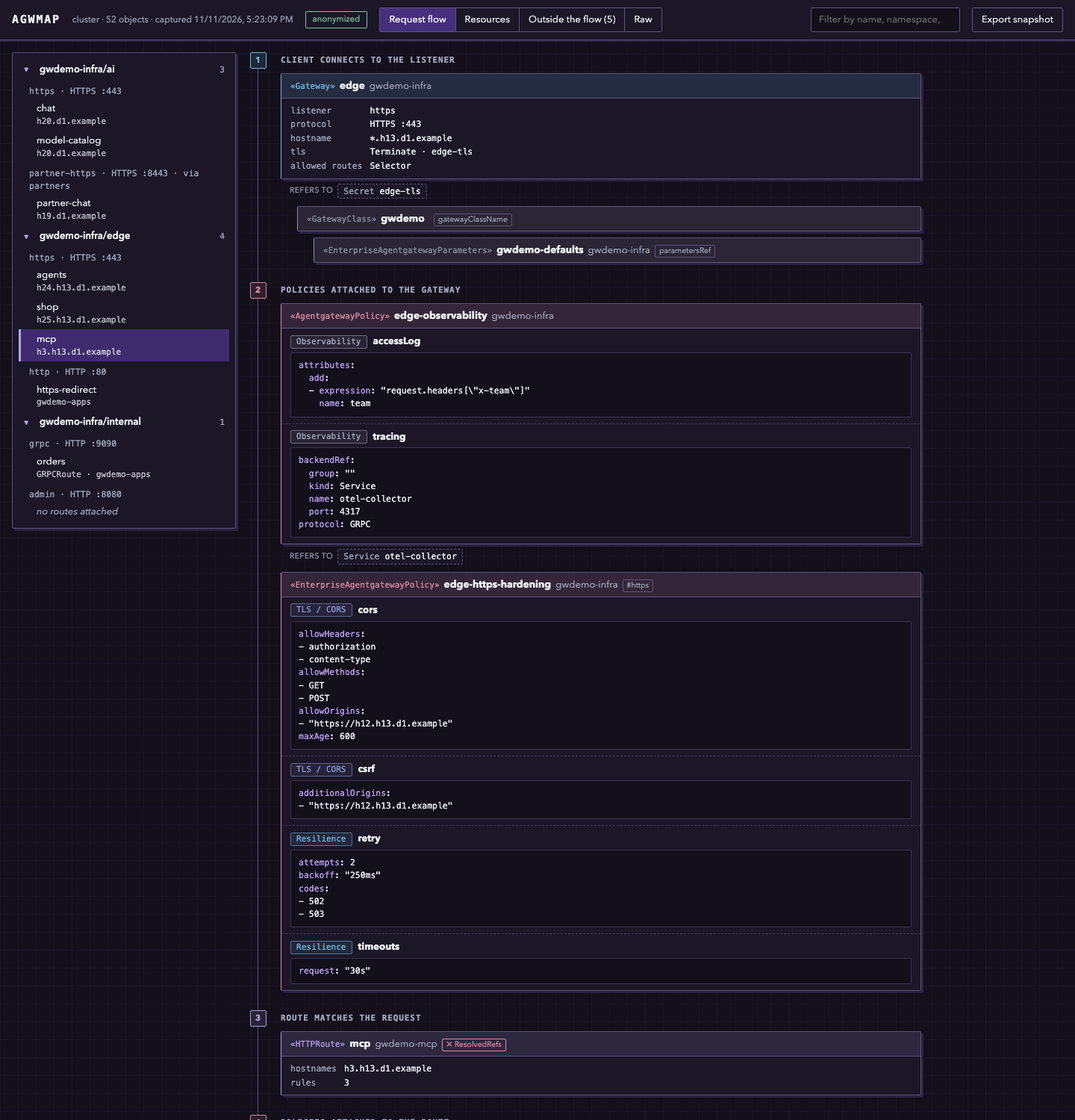
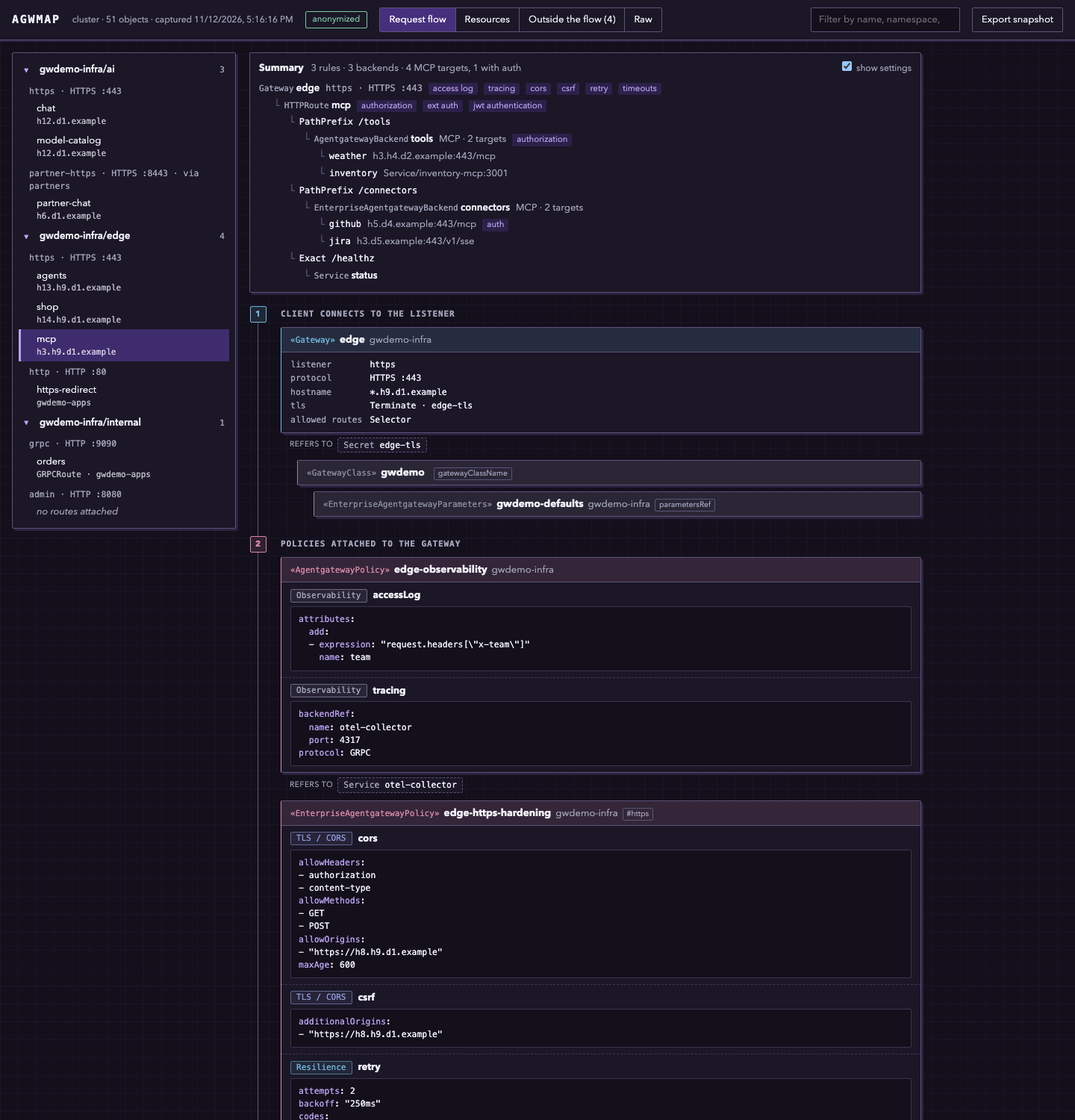
feat: show a summary of each request flow (#7)

diff --git a/web/index.html b/web/index.html
@@ -40,7 +40,8 @@ main{padding:16px}
   border-radius:var(--radius);padding:8px 12px;margin-bottom:12px}
 .mut{color:var(--mut)} .mono{font-family:var(--mono);font-size:.92em}
 .empty{color:var(--mut);font-style:italic}
-[data-open]{cursor:pointer}
+[data-open],[data-goto]{cursor:pointer}
+[data-goto]:hover{text-decoration:underline}
 .tag{display:inline-block;padding:0 7px;border:1px solid color-mix(in srgb,var(--c,var(--other)) 60%,var(--panel));border-radius:var(--radius);
   font-family:var(--mono);font-size:.85em;line-height:16px;white-space:nowrap;color:var(--c,var(--ink));
   background:color-mix(in srgb,var(--c,var(--other)) 10%,var(--panel))}
@@ -66,6 +67,8 @@ pre .y{color:var(--key)}
 .tree .r{padding:4px 6px 4px 24px;border-radius:calc(var(--radius) - 1px);cursor:pointer}
 .tree .r:hover{background:var(--soft)}
 .tree .r.on{background:color-mix(in srgb,var(--accent) 45%,var(--panel));color:var(--onaccent);box-shadow:inset 3px 0 0 var(--key)}
+.tree .r[style]{padding-left:calc(24px + var(--d) * 14px)}
+.tree .r .kid{color:var(--key);margin-right:5px}
 .tree .r small{display:block;opacity:.75;font-family:var(--mono);font-size:.85em;word-break:break-all}
 .flow{max-width:900px}
 .stage{position:relative;padding:0 0 18px 30px;border-left:1px solid var(--line);margin-left:11px}
@@ -104,6 +107,20 @@ pre .y{color:var(--key)}
 .badge.go{border-color:var(--gateway);color:var(--gateway)}
 .badge.also{border-color:var(--ratelimit);color:var(--ratelimit);margin-left:auto}
 .feat.filter{margin:0 0 8px;padding:0 0 8px;border-top:0;border-bottom:1px dashed var(--hair)}
+.summary{background:var(--panel);border:1px solid var(--line);border-radius:var(--radius);box-shadow:var(--shadow);padding:8px 12px 10px;margin-bottom:18px}
+.summary .sh{display:flex;flex-wrap:wrap;gap:4px 10px;align-items:baseline;margin-bottom:6px}
+.summary .sh label{margin-left:auto;color:var(--mut);font-size:.92em;cursor:pointer;user-select:none}
+.sl{padding:2px 0 2px calc(var(--d) * 20px);display:flex;flex-wrap:wrap;gap:3px 8px;align-items:baseline}
+.sl::before{content:"└";color:var(--line);font-family:var(--mono);margin-right:-2px}
+.sl[style="--d:0"]::before{content:none}
+.sl .nm{cursor:pointer;font-weight:600}
+.sl .nm:hover{color:var(--key)}
+.sl .nm .k{font-family:var(--mono);font-size:.85em;font-weight:400;color:var(--mut)}
+.does{font-size:.88em;border-radius:var(--radius);padding:0 6px;color:var(--key);background:color-mix(in srgb,var(--accent) 22%,var(--panel))}
+/* Settings collapsed: what each object configures stays, its YAML is one click away in the drawer. */
+.flowwrap.terse .feat>pre,.flowwrap.terse .feat>details{display:none}
+.flowwrap.terse .feat:not(:has(.fh)){display:none}
+.flowwrap.terse .feat .fh{margin-bottom:0}
 
 .tw{overflow:auto;border:1px solid var(--line);border-radius:var(--radius);background:var(--panel);box-shadow:var(--shadow)}
 table{border-collapse:collapse;width:100%}
@@ -248,15 +265,18 @@ function targetsOf(b) {
   const st = t => t.static || t;
   const host = t => { const x = st(t); return x.backendRef ? `Service/${x.backendRef.name}${x.port ? ":" + x.port : ""}${x.path || ""}`
     : `${x.host || x.unixPath || ""}${x.port ? ":" + x.port : ""}${x.path || ""}`; };
+  // where a target sends the request, to find out whether that is a gateway again
+  const addr = t => { const x = st(t); return {host: x.backendRef ? `${x.backendRef.name}.${x.backendRef.namespace || b.ns}.svc` : x.host, port: x.port, path: x.path}; };
   for (const k of ["mcp", "entMcp"]) for (const t of (s[k] && s[k].targets) || [])
-    out.push({name: t.name, where: t.selector ? "services selected by label" : host(t), proto: (t.static && t.static.protocol) || "MCP"});
+    out.push({name: t.name, where: t.selector ? "services selected by label" : host(t), proto: (t.static && t.static.protocol) || "MCP",
+      mcp: true, inline: Object.keys(st(t).policies || {}), addr: t.selector ? null : addr(t)});
   if (s.ai) {
     const provs = s.ai.provider ? [s.ai.provider] : (s.ai.groups || []).flatMap((g, i) => (g.providers || []).map(p => ({...p, _group: i + 1})));
     for (const p of provs) { const k = Object.keys(p).find(x => p[x] && typeof p[x] === "object" && x !== "policies") || "provider";
       out.push({name: p.name || k, where: [k, p[k] && p[k].model, p[k] && p[k].region, p.host].filter(Boolean).join(" · "), proto: p._group ? `LLM · priority ${p._group}` : "LLM"}); }
   }
-  if (s.static) out.push({name: "static", where: host(s.static), proto: "HTTP"});
-  if (s.a2a) out.push({name: "a2a", where: host(s.a2a), proto: "A2A"});
+  if (s.static) out.push({name: "static", where: host(s.static), proto: "HTTP", addr: addr(s.static)});
+  if (s.a2a) out.push({name: "a2a", where: host(s.a2a), proto: "A2A", addr: addr(s.a2a)});
   for (const [k, v] of Object.entries(s.aws || {})) // agentCore: runtime ARN, region, account
     out.push({name: k, where: Object.entries(v || {}).filter(x => typeof x[1] !== "object").map(x => `${x[0]}=${x[1]}`).join(" · "), proto: "AWS"});
   if (b.kind === "InferencePool") {
@@ -280,6 +300,32 @@ function targetsOf(b) {
   }
   return out;
 }
+// Whether a request path is taken by an HTTPRoute path match.
+function pathMatches(p, path) {
+  if (!p) return true;
+  const v = p.value ?? "/";
+  if (p.type === "Exact") return path === v;
+  if (p.type === "RegularExpression") { try { return new RegExp(`^(?:${v})$`).test(path); } catch (_) { return false; } }
+  return v === "/" || path === v || path.startsWith(v.replace(/\/$/, "") + "/"); // PathPrefix, element-wise
+}
+// A target addressed to the proxy Service of a captured gateway (name.namespace.svc) goes
+// back into that gateway: to the listener on its port and the route whose rule takes its path.
+// Returns {gw, le, r}, with le and r missing when nothing there takes it.
+function intoGateway(addr) {
+  const m = addr && /^([^.:]+)\.([^.:]+)\.svc(\.cluster\.local)?$/.exec(addr.host || "");
+  const gw = m && gateways.find(g => g.name === m[1] && g.ns === m[2]);
+  if (!gw) return null;
+  const le = listenersOf(gw).find(x => x.l.port === (addr.port || 80));
+  if (!le) return {gw};
+  const path = addr.path || "/";
+  const r = routesOf(gw, le).find(r => { const hs = spec(r).hostnames || [];
+    return (!hs.length || hs.some(h => hostsOverlap(h, addr.host))) && (spec(r).rules || [{}]).some(ru => (ru.matches || [{}]).some(mt => pathMatches(mt.path, path))); });
+  return {gw, le, r};
+}
+// the sidebar entry of the route a target lands on, and the attributes that lead there on a click
+const flowKey = to => to.r && to.le ? [to.r.id, to.gw.id, (to.le.via ? to.le.via.id : "") + "#" + to.le.l.name].join("|") : "";
+const goto = to => flowKey(to) ? `data-goto="${esc(flowKey(to))}" title="Show the flow of route ${esc(to.r.name)}"` : `data-open="${esc(to.gw.id)}"`;
+const intoText = to => `continues at gateway ${to.gw.name}${to.le ? ` · ${to.le.l.name}` : " · no listener on that port"}${to.le ? to.r ? ` · route ${to.r.name}` : " · no route takes the path" : ""}`;
 const matchText = m => {
   const p = m.path ? `${m.path.type || "PathPrefix"} ${m.path.value ?? "/"}` : "";
   const pairs = list => (list || []).map(x => `${x.name}${x.type === "RegularExpression" ? "~" : "="}${x.value}`).join(",");
@@ -339,7 +385,11 @@ function feature(src, f) {
 const feats = n => (n.features || []).map(f => feature(n, f)).join("");
 const specBlock = n => { const s = spec(n); return Object.keys(s).length ? `<div class="feat">${block(s, "spec")}</div>` : ""; };
 // what a backend-like object points at, and its inline policies
-const backendBody = b => { const ts = b.external ? [] : targetsOf(b); return (ts.length ? kv(ts.map(t => [t.name, `${t.proto} · ${t.where}`])) : "") + feats(b); };
+const backendBody = b => { const ts = b.external ? [] : targetsOf(b);
+  // targets that go back into a captured gateway, with a link to where they land
+  const back = ts.map(t => [t, intoGateway(t.addr)]).filter(x => x[1]).map(([t, to]) =>
+    `<div class="uses"><span class="ct">${esc(t.name)} continues at</span><span class="chip" data-open="${esc(to.gw.id)}"><span class="k">Gateway</span> ${esc(to.gw.name)}${to.le ? ` <span class="k">#${esc(to.le.l.name)}</span>` : ""}</span>${to.r ? `<span class="chip" data-goto="${esc(flowKey(to))}" title="Show the flow of this route"><span class="k">${esc(to.r.kind)}</span> ${esc(to.r.name)}</span>` : `<span class="badge bad">${esc(intoText(to).replace(/^.* · /, ""))}</span>`}</div>`).join("");
+  return (ts.length ? kv(ts.map(t => [t.name, `${t.proto} · ${t.where}`])) : "") + back + feats(b); };
 const bodyOf = n => n.role === "backend" ? backendBody(n) : (n.features || []).length ? feats(n) : specBlock(n);
 // A reference that leaves its namespace. Gateway API requires a ReferenceGrant for
 // route backends and listener certificates; for other references it is only noted.
@@ -403,6 +453,19 @@ for (const r of routes) {
   else if (!isChildRoute(r)) entries.push({grp: NONE, r});
 }
 entries.forEach(e => e.key = [e.r ? e.r.id : "", e.gw ? e.gw.id : e.svc ? e.svc.id : "", e.le ? (e.le.via ? e.le.via.id : "") + "#" + e.le.l.name : ""].join("|"));
+// Routes that a backend target sends back through a gateway: entry key -> [{key, target}].
+// In the sidebar they hang under the route that leads to them, when some route that is not
+// itself reached that way leads to them (two routes that only lead to each other stay on top).
+const backInto = new Map();
+for (const e of entries) if (e.r) for (const list of ruleBackends(e.r).values()) for (const {b} of list) {
+  if (b.role === "route" || b.external) continue;
+  for (const t of targetsOf(b)) { const k = flowKey(intoGateway(t.addr) || {});
+    if (k && k !== e.key && entries.some(x => x.key === k) && !(backInto.get(e.key) || []).some(c => c.key === k)) push(backInto, e.key, {key: k, target: t.name}); }
+}
+const nestedKeys = new Set();
+{ const reached = new Set([...backInto.values()].flat().map(c => c.key));
+  const walk = k => { for (const c of backInto.get(k) || []) if (!nestedKeys.has(c.key)) { nestedKeys.add(c.key); walk(c.key); } };
+  for (const e of entries) if (!reached.has(e.key)) walk(e.key); }
 
 // the rules of a route: matches, filters, backends and what is attached to them
 // The filters of a rule or of one backendRef (at: their path in the route), each
@@ -449,13 +512,67 @@ function settingsOnPath(e, gwPols) {
   if (e.r) walk(e.r, 0);
   return m;
 }
+/* ---------- summary ---------- */
+// Whether the flow shows the YAML of each setting; on by default, remembered in this browser.
+let showConfig = true;
+try { showConfig = localStorage.getItem("agwmap.showConfig") !== "0"; } catch (_) {}
+// The flow in a few lines, without the settings: what is reached and what each step does.
+// A setting in words: entTokenExchange -> token exchange, mcp.authorization -> authorization.
+const said = k => k.replace(/^(ai|mcp)\./, "").replace(/^ent(?=[A-Z])/, "").replace(/([a-z0-9])([A-Z])/g, "$1 $2").toLowerCase();
+// what the policies in a list do, each setting once
+const doing = list => [...new Set(list.flatMap(({p}) => (p.features || []).map(f => said(f.key))))];
+const words = (ws, none = "") => ws.length ? ws.map(w => `<span class="does">${esc(w)}</span>`).join("") : none ? `<span class="mut">${none}</span>` : "";
+const nm = n => `<span class="nm" data-open="${esc(n.id)}"><span class="k">${esc(n.kind)}</span> ${esc(n.name)}</span>`;
+function summaryHtml(e, gwPols) {
+  const lines = [], count = {rules: 0, backends: new Set(), targets: 0, with: new Map(), back: 0};
+  const line = (depth, body) => lines.push(`<div class="sl" style="--d:${depth}">${body}</div>`);
+  if (e.gw) line(0, `${nm(e.gw)} <span class="mut mono">${esc(e.le.l.name)} · ${esc(e.le.l.protocol)} :${esc(e.le.l.port)}</span>${words(doing(gwPols))}`);
+  else if (e.svc) line(0, `${nm(e.svc)} <span class="mut">in the mesh</span>${words(doing(gwPols))}`);
+  const route = (r, depth, seen) => {
+    line(depth, `${nm(r)}${words(doing(polsOn(r.id)))}`);
+    if (seen.has(r.id)) return;
+    seen.add(r.id);
+    const rb = ruleBackends(r), l4 = ["TLSRoute", "TCPRoute", "UDPRoute"].includes(r.kind);
+    (spec(r).rules || [{}]).forEach((ru, ri) => {
+      count.rules++;
+      const list = rb.get(ri) || [], filters = (ru.filters || []).map(f => said(f.type));
+      line(depth + 1, `<span class="mono">${esc(l4 ? "all connections" : (ru.matches || [{}]).map(matchText).join(" | "))}</span>${words(filters)}${list.length ? "" : ` <span class="mut">${filters.length ? "answered by the filters" : "no backend"}</span>`}`);
+      for (const {b, weight} of list) {
+        if (b.role === "route") { route(b, depth + 2, seen); continue; }
+        count.backends.add(b.id);
+        const ts = b.external ? [] : targetsOf(b).filter(t => t.name !== "settings"), pols = polsOn(b.id);
+        const mcp = ts.filter(t => t.mcp), what = mcp.length ? `MCP · ${mcp.length} target${mcp.length > 1 ? "s" : ""}` : ts.length === 1 ? ts[0].proto : ts.length && ts.every(t => t.proto.startsWith("LLM")) ? `LLM · ${ts.length} providers` : ts.length ? `${ts.length} targets` : "";
+        const own = doing([...pols.filter(x => !x.section || !ts.some(t => t.name === x.section)), {p: b}]);
+        line(depth + 2, `${nm(b)}${what ? ` <span class="mut">${esc(what)}</span>` : ""}${weight !== undefined && list.length > 1 ? ` <span class="badge">weight ${esc(weight)}</span>` : ""}${continues(b)}${words(own)}`);
+        // Several targets, or one that goes back into a gateway: one line each, with what is
+        // attached to that target alone (sectionName), and the route it reaches there: only its
+        // name and policies, its rules and backends are in the flow of that route.
+        const into = ts.map(t => intoGateway(t.addr));
+        if (ts.length > 1 || into.some(Boolean)) ts.forEach((t, ti) => {
+          const ws = [...doing(pols.filter(x => x.section === t.name)), ...(t.inline || []).map(said)], to = into[ti];
+          if (t.mcp) { count.targets++; for (const w of ws) count.with.set(w, (count.with.get(w) || 0) + 1); }
+          if (to) count.back++;
+          line(depth + 3, `<span class="mono">${esc(t.name)}</span> <span class="mut">${esc(t.where)}</span>${words(ws)}${to && !to.r ? `<span class="badge bad" data-open="${esc(to.gw.id)}">${esc(intoText(to))}</span>` : ""}`);
+          if (to && to.r) line(depth + 4, `<span class="nm" ${goto(to)}><span class="k">${esc(to.r.kind)}</span> ${esc(to.r.name)}</span>${words(doing(polsOn(to.r.id)))}`);
+        });
+      }
+    });
+  };
+  if (e.r) route(e.r, e.gw || e.svc ? 1 : 0, new Set());
+  const plural = (n, w) => `${n} ${w}${n === 1 ? "" : "s"}`;
+  const head = e.r ? [plural(count.rules, "rule"), plural(count.backends.size, "backend"),
+    count.targets ? plural(count.targets, "MCP target") + [...count.with].map(([w, n]) => `, ${n} with ${w}`).join("") : "",
+    count.back ? `${count.back} back through a gateway` : ""].filter(Boolean).join(" · ") : "no route";
+  return `<div class="summary"><div class="sh"><b>Summary</b><span class="mut">${esc(head)}</span><label><input type="checkbox" class="showcfg"${showConfig ? " checked" : ""}> show settings</label></div>${lines.join("")}</div>`;
+}
+
 function flowHtml(e) {
   const r = e.r, {l, via} = e.le || {}, cls = e.gw && outE(e.gw.id).find(x => x.type === "class");
   const gwPols = e.gw ? [...polsOn(e.gw.id).filter(x => !x.section || (!via && x.section === l.name)),
       ...(via ? polsOn(via.id).filter(x => !x.section || x.section === l.name) : []), ...(cls ? polsOn(cls.to) : [])]
     : e.svc ? polsOn(e.svc.id) : [];
   sameSetting = settingsOnPath(e, gwPols);
-  let h = "", i = 1;
+  let h = summaryHtml(e, gwPols), i = 1;
   if (e.gw) {
     const lkv = kv([["listener", l.name], ["protocol", `${l.protocol} :${l.port}`], ["hostname", l.hostname || "*"],
       ["tls", l.tls ? [l.tls.mode || "Terminate", (l.tls.certificateRefs || []).map(c => c.name).join(", ")].filter(Boolean).join(" · ") : ""], ["allowed routes", get(l, "allowedRoutes.namespaces.from")]]);
@@ -494,12 +611,27 @@ let sel = null;
 const collapsed = new Set(); // groups folded away in the sidebar
 function viewFlow(root) {
   if (!sel || !entries.some(e => e.key === sel)) sel = (entries.find(e => e.r) || entries[0] || {}).key || null;
-  root.innerHTML = `<div class="flowwrap"><nav class="tree"></nav><div class="flow"></div></div>`;
+  root.innerHTML = `<div class="flowwrap${showConfig ? "" : " terse"}"><nav class="tree"></nav><div class="flow"></div></div>`;
   const tree = root.querySelector(".tree"), flow = root.querySelector(".flow");
+  flow.addEventListener("change", ev => {
+    if (!ev.target.matches(".showcfg")) return;
+    showConfig = ev.target.checked;
+    root.querySelector(".flowwrap").classList.toggle("terse", !showConfig);
+    try { localStorage.setItem("agwmap.showConfig", showConfig ? "1" : "0"); } catch (_) {}
+  });
+  const row = (e, depth, via) => `<div class="r ${e.key === sel ? "on" : ""}" data-k="${esc(e.key)}"${depth ? ` style="--d:${depth}"` : ""}>${e.r
+    ? `${depth ? `<span class="kid">↳</span>` : ""}${esc(e.r.name)}<small>${via ? `from target ${esc(via)} · ` : ""}${esc(e.r.kind === "HTTPRoute" ? "" : e.r.kind + " · ")}${esc((spec(e.r).hostnames || []).join(", ") || e.r.ns)}</small>`
+    : `<span class="empty">no routes attached</span>`}</div>`;
+  // the routes a route's targets lead back to, under it (once per path, so a loop ends)
+  const kids = (e, depth, seen) => (backInto.get(e.key) || []).filter(c => !seen.has(c.key)).map(c => {
+    const k = entries.find(x => x.key === c.key);
+    return row(k, depth, c.target) + kids(k, depth + 1, new Set([...seen, c.key]));
+  }).join("");
   const paint = q => {
     let h = "", lastG = null, lastL = null;
     for (const e of entries) {
       if (q && !(e.r ? hay(e.r) : hay(e.gw)).includes(q)) continue;
+      if (!q && nestedKeys.has(e.key)) continue; // drawn under the route that leads to it; a filter lists every match flat
       const shut = collapsed.has(e.grp.id);
       if (e.grp !== lastG) {
         const n = entries.filter(x => x.grp === e.grp && x.r).length;
@@ -513,7 +645,7 @@ function viewFlow(root) {
           : `<div class="l">Service ${esc(e.svc.ns)}/${esc(e.svc.name)}</div>`;
         lastL = lkey;
       }
-      h += `<div class="r ${e.key === sel ? "on" : ""}" data-k="${esc(e.key)}">${e.r ? `${esc(e.r.name)}<small>${esc(e.r.kind === "HTTPRoute" ? "" : e.r.kind + " · ")}${esc((spec(e.r).hostnames || []).join(", ") || e.r.ns)}</small>` : `<span class="empty">no routes attached</span>`}</div>`;
+      h += row(e, 0) + (q ? "" : kids(e, 1, new Set([e.key])));
     }
     tree.innerHTML = h || `<div class="empty">No routes match</div>`;
   };
@@ -623,6 +755,15 @@ drawer.addEventListener("click", e => {
 document.addEventListener("keydown", e => { if (e.key === "Escape") drawer.classList.remove("on"); });
 document.addEventListener("click", e => {
   if (e.target.closest("summary") || String(getSelection())) return; // expanding or selecting text is not a click on the card
+  const go = e.target.closest("[data-goto]");
+  if (go) { // to the flow of another route: select it in the sidebar and draw it
+    sel = go.dataset.goto;
+    drawer.classList.remove("on");
+    if (location.hash !== "#flow") location.hash = "flow";
+    render();
+    scrollTo(0, 0);
+    return;
+  }
   const el = e.target.closest("[data-open]");
   if (el) openDetail(el.dataset.open);
   else if (!e.target.closest("#drawer")) drawer.classList.remove("on");

diff --git a/anonymize.go b/anonymize.go
@@ -28,7 +28,10 @@ import (
 //   - gRPC service names in route matches
 //   - label and annotation values, by the same rules
 //
-// In-cluster service hostnames are replaced too (svc-1.ns-1.svc.cluster.local).
+// In-cluster service hostnames are replaced too (svc-1.ns-1.svc.cluster.local),
+// unless they name what the capture names anyway: the proxy Service of a
+// captured Gateway, or a Service that an object refers to by name. Keeping
+// those lets the map follow a request that leaves the gateway and comes back.
 //
 // Kept: the names and namespaces of the objects themselves and the names of the
 // objects they refer to (Secrets, Services, models), which the map needs to
@@ -103,6 +106,44 @@ type anonymizer struct {
 	pseudo map[string]string // "kind\x00value" -> pseudonym
 	count  map[string]int
 	hosts  map[string]bool // hostnames replaced so far, to find them again in free text
+	named  map[string]bool // "name.namespace" of the Services the capture names: kept in hostnames
+}
+
+// namedServices collects the Services that the objects name: the proxy Service
+// of each Gateway, which has the Gateway's name, and every reference to a
+// Service (a backendRef without a kind, or any reference of kind Service).
+func namedServices(objs []unstructured.Unstructured) map[string]bool {
+	named := map[string]bool{}
+	var refs func(v any, key, ns string)
+	refs = func(v any, key, ns string) {
+		switch t := v.(type) {
+		case []any:
+			for _, c := range t {
+				refs(c, key, ns)
+			}
+		case map[string]any:
+			name, _ := t["name"].(string)
+			kind, hasKind := t["kind"].(string)
+			if name != "" && (kind == "Service" || !hasKind && (key == "backendRef" || key == "backendRefs")) {
+				refNS, _ := t["namespace"].(string)
+				if refNS == "" {
+					refNS = ns
+				}
+				named[name+"."+refNS] = true
+			}
+			for k, c := range t {
+				refs(c, k, ns)
+			}
+		}
+	}
+	for i := range objs {
+		u := &objs[i]
+		if u.GetKind() == "Gateway" {
+			named[u.GetName()+"."+u.GetNamespace()] = true
+		}
+		refs(u.Object["spec"], "spec", u.GetNamespace())
+	}
+	return named
 }
 
 func sortedKeys(m map[string]any) []string { return slices.Sorted(maps.Keys(m)) }
@@ -116,7 +157,7 @@ func anonymize(objs []unstructured.Unstructured) *anonymizer {
 		}
 		return key(&objs[i]) < key(&objs[j])
 	})
-	a := &anonymizer{pseudo: map[string]string{}, count: map[string]int{}, hosts: map[string]bool{}}
+	a := &anonymizer{pseudo: map[string]string{}, count: map[string]int{}, hosts: map[string]bool{}, named: namedServices(objs)}
 	// The second pass replaces hostnames that the first one only learned about
 	// later, or met in a place where nothing marks them as a host.
 	for _, visit := range []func(v any, key, parent string) any{a.walk, a.sweep} {
@@ -359,6 +400,9 @@ func (a *anonymizer) host(h string) string {
 		}
 	}
 	if m := clusterSvcRe.FindStringSubmatch(h); m != nil {
+		if a.named[m[1]+"."+m[2]] {
+			return h // the capture names this Service already
+		}
 		return a.name("svc", m[1]) + "." + a.name("ns", m[2]) + ".svc" + m[3]
 	}
 	a.hosts[h] = true

diff --git a/e2e_test.go b/e2e_test.go
@@ -48,7 +48,8 @@ var leaks = []string{
 	"leak-bearer", "leak-apikey", "sk-leak", "ghp_leak", "bGVhay11c2Vy", // inline credentials
 	"leak-query-secret", "LEAKCLUSTERID", "8f3c1e2a", "0a1b2c3d", // URL query and path, GUIDs
 	"123456789012", "2600:1f18", "203.0.113.77", // account id, addresses
-	"jane.doe", // the user named in a "forbidden" warning
+	"jane.doe",                                           // the user named in a "forbidden" warning
+	"search.hairpin", "tickets.hairpin", "repos.hairpin", // hairpin.yaml: Services that nothing names
 }
 
 // cluster is the fake API server.
@@ -363,8 +364,10 @@ func TestCaptureIsAnonymizedByDefault(t *testing.T) {
 			}
 		}
 	}
-	// What makes the output useful survives: names, and the shape of a URL.
-	for _, want := range []string{`name: llm-failover`, `/realms/p-`, `/protocol/openid-connect/certs`, `.example`} {
+	// What makes the output useful survives: names, the shape of a URL, and the
+	// hostname of a gateway's own proxy Service, which leads back into the gateway.
+	for _, want := range []string{`name: llm-failover`, `/realms/p-`, `/protocol/openid-connect/certs`, `.example`,
+		`host: edge.hairpin.svc.cluster.local`} {
 		if !strings.Contains(raw, want) {
 			t.Errorf("the snapshot does not contain %q", want)
 		}

diff --git a/README.md b/README.md
@@ -4,7 +4,7 @@ agwmap reads the gateway configuration of a Kubernetes cluster and turns it into
 HTML page that shows what happens to a request: which listener takes it, which policies apply at each
 level, which route matches, and where it ends up.
 
-![The request flow of one route: listener, gateway policies, route, route policies, backends](docs/screenshot.png)
+![The request flow of one route: a summary, then listener, gateway policies, route, route policies, backends](docs/screenshot.png)
 
 ## What it is for
 
@@ -12,6 +12,18 @@ The page is meant for a setup you did not build. Pick a route and read its path 
 listener, gateway policies, route, route policies, backends and their upstream targets. Policies are
 labelled by what they do (authentication, rate limiting, guardrails, token exchange) and not only by
 their kind.
+
+Each route starts with a summary of that path in a few lines: the gateway, the route, its rules, the
+backends and their targets, each with what is configured on it, and a count such as "1 rule · 1 backend
+· 4 MCP targets, 3 with connector". Untick "show settings" to hide the YAML of each setting
+and keep only what each object configures; the page remembers the choice, and clicking any object
+shows its full YAML either way.
+
+A backend target addressed to a gateway's own Service (`<gateway>.<namespace>.svc.cluster.local`)
+sends the request back into that gateway. The map follows it to the listener on that port and the
+route that takes its path, and draws that route under the target, or flags the target when nothing
+there takes it. Clicking that route opens its flow, and the sidebar lists it under the route it is
+reached from.
 
 It also points at what is wrong or unused. Objects with a failing status condition are flagged, as are
 cross-namespace references without a ReferenceGrant and settings configured at more than one level.
@@ -169,7 +181,7 @@ With anonymization, which is the default:
 | E-mail addresses, GUIDs, AWS account ids and ARN resource names, Google Cloud project ids, client and tenant ids | Label and annotation keys under the gateway domains, and the labels a policy selects its targets by |
 | Inline credentials: secret-like fields and headers, bearer and basic tokens, JWTs, API keys, PEM blocks | Free text: descriptions, CEL expressions, header names, paths in route matches |
 | Labels and annotations outside the gateway domains listed in [`minimize.go`](minimize.go) | Model names, regions, ports, protocols |
-| The kube context name, and the user and server named in warnings | |
+| The kube context name, and the user and server named in warnings | In-cluster hostnames (`name.namespace.svc`) of a captured Gateway's proxy Service or of a Service an object refers to, so that a target that goes back through a gateway can be followed |
 
 Anonymization works by recognising values, so it can miss one it has no rule for, and it does not try
 to hide what your objects are called. If a name gives away more than you want to share, or you find a
